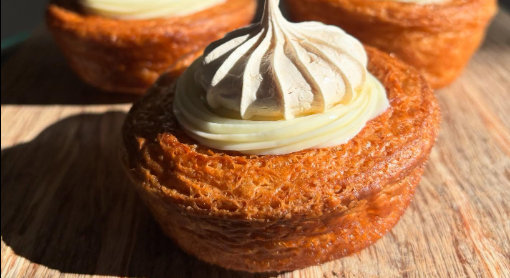
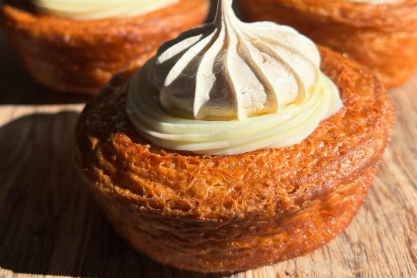
Update

diff --git a/Assignments/Website Redesign/Files/menu.html b/Assignments/Website Redesign/Files/menu.html
@@ -159,8 +159,8 @@
             <div class="col-md-4 card bg-my-card-color card2">
                 <div class="card-img-container">
                     <img class="card-img-top menu_img object-fit-fill border rounded"
-                        src="https://github.com/jerrf010/jerrf010.github.io/blob/main/Assignments/Website%20Redesign/Media/blood_orange.png?raw=true"
-                        alt="blood_orange_olive_oil_cakes">
+                        src="https://github.com/jerrf010/jerrf010.github.io/blob/main/Assignments/Website%20Redesign/Media/caram_citrus.png?raw=true"
+                        alt="Caramelized Citrus Cruffins">
                 </div>
                 <div class="card-body">
                     <div class="card_text">
